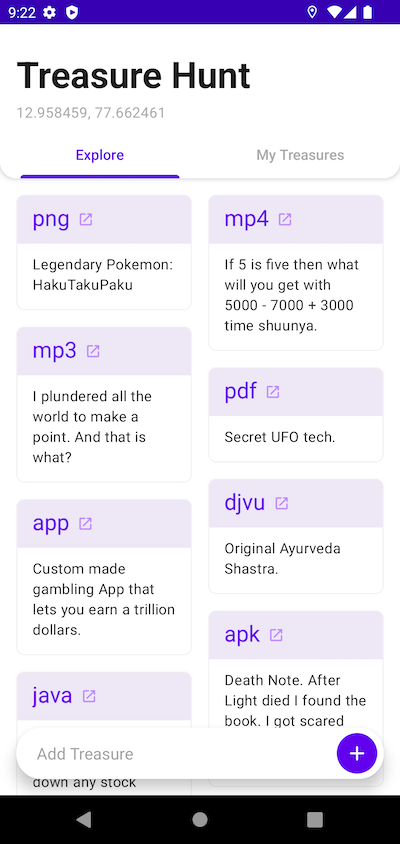
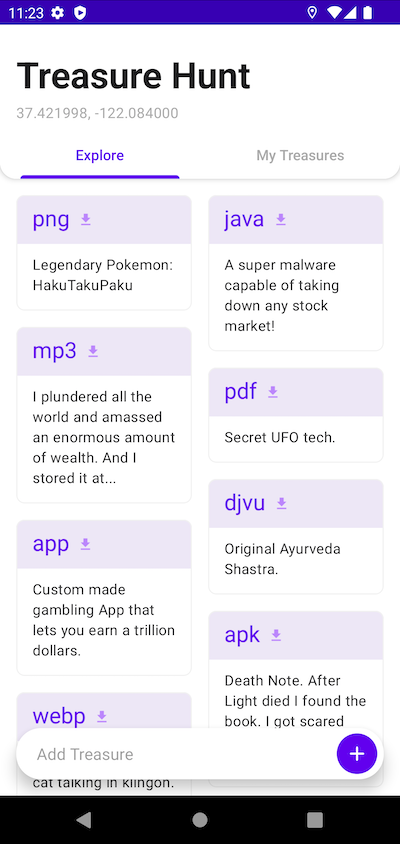
Added location toggle listener

diff --git a/TreasureHunt/app/src/main/java/com/singularitycoder/treasurehunt/MainActivity.kt b/TreasureHunt/app/src/main/java/com/singularitycoder/treasurehunt/MainActivity.kt
@@ -1,14 +1,21 @@
 package com.singularitycoder.treasurehunt
 
 import android.Manifest
+import android.content.BroadcastReceiver
+import android.content.Context
 import android.content.Intent
+import android.content.IntentFilter
+import android.content.pm.PackageManager
+import android.location.GnssStatus
 import android.location.Location
-import android.os.Bundle
+import android.location.LocationManager
+import android.os.*
 import android.provider.Settings
 import androidx.activity.result.contract.ActivityResultContracts
 import androidx.activity.viewModels
 import androidx.appcompat.app.AlertDialog
 import androidx.appcompat.app.AppCompatActivity
+import androidx.core.app.ActivityCompat
 import androidx.fragment.app.Fragment
 import androidx.fragment.app.FragmentManager
 import androidx.lifecycle.Lifecycle
@@ -21,6 +28,7 @@ import com.singularitycoder.treasurehunt.databinding.ActivityMainBinding
 import com.singularitycoder.treasurehunt.helpers.*
 import dagger.hilt.android.AndroidEntryPoint
 import javax.inject.Inject
+
 
 // It would be nice to bind that treasure in a physical location but that is not possible with sockets. so the lat long will be fixed but the device is moving constantly.
 // It would also be nice to do it in AR or VR. So the treasure are not just limited to audio, video, image, text but any file. We plant it in a location and find it in AR/VR. I doubt if its possible on android though
@@ -46,26 +54,75 @@ class MainActivity : AppCompatActivity() {
 
     var lastUpdatedLocation: Location? = null
 
+    private val locationToggleStatusReceiver = object : BroadcastReceiver() {
+        override fun onReceive(context: Context, intent: Intent) {
+            if (intent.action != BroadcastKey.LOCATION_TOGGLE_STATUS) return
+            val isLocationToggleOn = intent.getBooleanExtra(IntentKey.LOCATION_TOGGLE_STATUS, false)
+            if (isLocationToggleOn.not()) {
+                showLocationToggleDialog()
+            } else {
+                grantLocationPermissions()
+            }
+        }
+    }
+
+    private val permissionsResult = registerForActivityResult(ActivityResultContracts.RequestMultiplePermissions()) { permissions: Map<String, @JvmSuppressWildcards Boolean>? ->
+        permissions?.entries?.forEach { it: Map.Entry<String, @JvmSuppressWildcards Boolean> ->
+            val permission = it.key
+            val isGranted = it.value
+            when {
+                isGranted -> Unit
+                ActivityCompat.shouldShowRequestPermissionRationale(this, permission) -> {
+                    // Permission denied but not permanently, tell user why you need it. Ideally provide a button to request it again and another to dismiss
+                }
+                else -> {
+                    // permission permanently denied. Show settings dialog
+                }
+            }
+        }
+    }
+
     private val locationPermissionResult = registerForActivityResult(ActivityResultContracts.RequestPermission()) { isPermissionGranted: Boolean? ->
         isPermissionGranted ?: return@registerForActivityResult
         if (isPermissionGranted.not()) {
             val accessFineLocationNeedsRationale = shouldShowRationaleFor(Manifest.permission.ACCESS_FINE_LOCATION)
             if (accessFineLocationNeedsRationale) {
-                AlertDialog.Builder(this).apply {
-                    setTitle(R.string.permission_rationale_dialog_title)
-                    setMessage(R.string.permission_rationale_dialog_message)
-                    setPositiveButton("Ok") { dialog, which ->
-                        val intent = Intent(Settings.ACTION_LOCATION_SOURCE_SETTINGS)
-                        context.startActivity(intent)
-                    }
-                    setNegativeButton("Cancel") { dialog, which -> dialog.cancel() }
-                    show()
-                }
+                showLocationPermissionDialog()
             }
             return@registerForActivityResult
         }
         val accessFineLocationGranted = hasPermission(Manifest.permission.ACCESS_FINE_LOCATION)
-        if (accessFineLocationGranted) viewModel.toggleLocationUpdates()
+        val isLocationToggleEnabled = isLocationToggleEnabled()
+        println("isLocationToggleEnabled: $isLocationToggleEnabled")
+        if (accessFineLocationGranted && isLocationToggleEnabled) {
+            viewModel.toggleLocationUpdates()
+        } else {
+            showLocationToggleDialog()
+        }
+    }
+
+    private fun showLocationToggleDialog() {
+        AlertDialog.Builder(this@MainActivity).apply {
+            setTitle("Location toggle disabled")
+            setMessage("Turn on the location toggle to hunt treasures. Swipe down notifications drawer -> Location")
+            setPositiveButton("Ok") { dialog, which ->
+                grantLocationPermissions()
+            }
+            show()
+        }
+    }
+
+    private fun showLocationPermissionDialog() {
+        AlertDialog.Builder(this).apply {
+            setTitle(R.string.permission_rationale_dialog_title)
+            setMessage(R.string.permission_rationale_dialog_message)
+            setPositiveButton("Ok") { dialog, which ->
+                val intent = Intent(Settings.ACTION_LOCATION_SOURCE_SETTINGS)
+                context.startActivity(intent)
+            }
+            setNegativeButton("Cancel") { dialog, which -> dialog.cancel() }
+            show()
+        }
     }
 
     private val viewPager2PageChangeListener = object : ViewPager2.OnPageChangeCallback() {
@@ -91,6 +148,7 @@ class MainActivity : AppCompatActivity() {
         setContentView(binding.root)
         binding.setupUI()
         binding.setUpViewPager()
+        setLocationToggleListener()
         observeForData()
     }
 
@@ -100,14 +158,20 @@ class MainActivity : AppCompatActivity() {
         bindService(serviceIntent, viewModel, BIND_AUTO_CREATE)
     }
 
+    override fun onResume() {
+        super.onResume()
+        registerReceiver()
+        grantLocationPermissions()
+    }
+
+    override fun onPause() {
+        super.onPause()
+        unregisterReceiver()
+    }
+
     override fun onStop() {
         super.onStop()
         unbindService(viewModel)
-    }
-
-    override fun onResume() {
-        super.onResume()
-        grantLocationPermissions()
     }
 
     override fun onDestroy() {
@@ -137,6 +201,33 @@ class MainActivity : AppCompatActivity() {
         }.attach()
     }
 
+    // https://developer.android.com/reference/android/location/LocationManager#registerGnssStatusCallback(android.location.GnssStatus.Callback,%20android.os.Handler)
+    private fun setLocationToggleListener() {
+        val locationManager = getSystemService(LOCATION_SERVICE) as LocationManager
+        if (Build.VERSION.SDK_INT >= Build.VERSION_CODES.N) {
+            if (ActivityCompat.checkSelfPermission(this@MainActivity, Manifest.permission.ACCESS_FINE_LOCATION) != PackageManager.PERMISSION_GRANTED) {
+                return
+            }
+            locationManager.registerGnssStatusCallback(object : GnssStatus.Callback() {
+                override fun onStopped() {
+                    super.onStopped()
+                    showLocationToggleDialog()
+                    println("location toggle: stopped")
+                }
+
+                override fun onStarted() {
+                    super.onStarted()
+                    println("location toggle: started")
+                }
+
+                override fun onSatelliteStatusChanged(status: GnssStatus) {
+                    super.onSatelliteStatusChanged(status)
+                    println("location toggle: ${status.satelliteCount}")
+                }
+            }, null)
+        }
+    }
+
     private fun observeForData() {
         collectLatestLifecycleFlow(flow = viewModel.lastLocation) { lastLocation: Location? ->
             println("lastLocation: ${lastLocation?.latitude}, ${lastLocation?.longitude}")
@@ -159,6 +250,14 @@ class MainActivity : AppCompatActivity() {
 
     private fun grantLocationPermissions() {
         locationPermissionResult.launch(Manifest.permission.ACCESS_FINE_LOCATION)
+    }
+
+    private fun registerReceiver() {
+        registerReceiver(locationToggleStatusReceiver, IntentFilter(BroadcastKey.LOCATION_TOGGLE_STATUS))
+    }
+
+    private fun unregisterReceiver() {
+        unregisterReceiver(locationToggleStatusReceiver)
     }
 
     inner class HomeViewPagerAdapter(fragmentManager: FragmentManager, lifecycle: Lifecycle) : FragmentStateAdapter(fragmentManager, lifecycle) {

diff --git a/TreasureHunt/app/src/main/java/com/singularitycoder/treasurehunt/helpers/GeneralUtils.kt b/TreasureHunt/app/src/main/java/com/singularitycoder/treasurehunt/helpers/GeneralUtils.kt
@@ -11,6 +11,7 @@ import android.graphics.Bitmap
 import android.graphics.Canvas
 import android.graphics.Point
 import android.graphics.drawable.Drawable
+import android.location.LocationManager
 import android.media.MediaMetadataRetriever
 import android.net.Uri
 import android.os.Build
@@ -56,11 +57,6 @@ import java.io.FileOutputStream
 import java.text.SimpleDateFormat
 import java.util.*
 import java.util.concurrent.TimeUnit
-
-const val DB_CONTACT = "db_contact"
-const val TABLE_CONTACT = "table_contact"
-
-const val TAG_PERSON_DETAIL_MODAL_BOTTOM_SHEET = "TAG_PERSON_DETAIL_MODAL_BOTTOM_SHEET"
 
 fun View.showSnackBar(
     message: String,
@@ -472,6 +468,21 @@ val View.isKeyboardVisible: Boolean
     } else {
         false
     }
+
+// https://stackoverflow.com/questions/10311834/how-to-check-if-location-services-are-enabled#:~:text=%40lenik%2C%20some%20devices%20provide%20a,if%20specific%20providers%20are%20enabled.
+// https://developer.android.com/reference/android/provider/Settings.Secure#LOCATION_PROVIDERS_ALLOWED
+fun Context.isLocationToggleEnabled(): Boolean {
+    return if (Build.VERSION.SDK_INT >= Build.VERSION_CODES.P) {
+        val locationManager = getSystemService(Context.LOCATION_SERVICE) as LocationManager
+        val isGpsEnabled = locationManager.isProviderEnabled(LocationManager.GPS_PROVIDER)
+        val isNetworkEnabled = locationManager.isProviderEnabled(LocationManager.NETWORK_PROVIDER)
+        val isProvidersListEmpty = locationManager.getProviders(true).isEmpty()
+        locationManager.isLocationEnabled
+    } else {
+        val locationProviders: String = Settings.Secure.getString(contentResolver, Settings.Secure.LOCATION_PROVIDERS_ALLOWED)
+        locationProviders.isNotBlank()
+    }
+}
 
 enum class DateType(val value: String) {
     dd_MMM_yyyy(value = "dd MMM yyyy"),

diff --git a/TreasureHunt/app/src/main/java/com/singularitycoder/treasurehunt/helpers/CustomBroadcastReceiver.kt b/TreasureHunt/app/src/main/java/com/singularitycoder/treasurehunt/helpers/CustomBroadcastReceiver.kt
@@ -1,0 +1,28 @@
+package com.singularitycoder.treasurehunt.helpers
+
+import android.content.BroadcastReceiver
+import android.content.Context
+import android.content.Intent
+import android.location.LocationManager
+
+class CustomBroadcastReceiver : BroadcastReceiver() {
+
+    override fun onReceive(context: Context, intent: Intent) {
+        when (intent.action) {
+            Intent.ACTION_PROVIDER_CHANGED -> {
+                sendLocationToggleStatus(context)
+            }
+        }
+    }
+
+    // https://stackoverflow.com/questions/15778807/how-to-detect-when-user-turn-on-off-gps-state
+    private fun sendLocationToggleStatus(context: Context) {
+        val locationManager = context.getSystemService(Context.LOCATION_SERVICE) as LocationManager
+        val isGpsEnabled = locationManager.isProviderEnabled(LocationManager.GPS_PROVIDER)
+        val isNetworkEnabled = locationManager.isProviderEnabled(LocationManager.NETWORK_PROVIDER)
+        val locationToggleStatusIntent = Intent(BroadcastKey.LOCATION_TOGGLE_STATUS).apply {
+            putExtra(IntentKey.LOCATION_TOGGLE_STATUS, isGpsEnabled || isNetworkEnabled)
+        }
+        context.sendBroadcast(locationToggleStatusIntent)
+    }
+}

diff --git a/TreasureHunt/app/src/main/java/com/singularitycoder/treasurehunt/helpers/Constants.kt b/TreasureHunt/app/src/main/java/com/singularitycoder/treasurehunt/helpers/Constants.kt
@@ -2,6 +2,19 @@ package com.singularitycoder.treasurehunt.helpers
 
 import com.singularitycoder.treasurehunt.Treasure
 
+object IntentKey {
+    const val LOCATION_TOGGLE_STATUS = "LOCATION_TOGGLE_STATUS"
+}
+
+object DbKey {
+    const val DB_TREASURE = "db_treasure"
+    const val TABLE_TREASURE = "table_treasure"
+}
+
+object BroadcastKey {
+    const val LOCATION_TOGGLE_STATUS = "LOCATION_TOGGLE_STATUS"
+}
+
 val dummyTreasures = mutableListOf(
     Treasure(
         title = "Legendary Pokemon: HakuTakuPaku",
